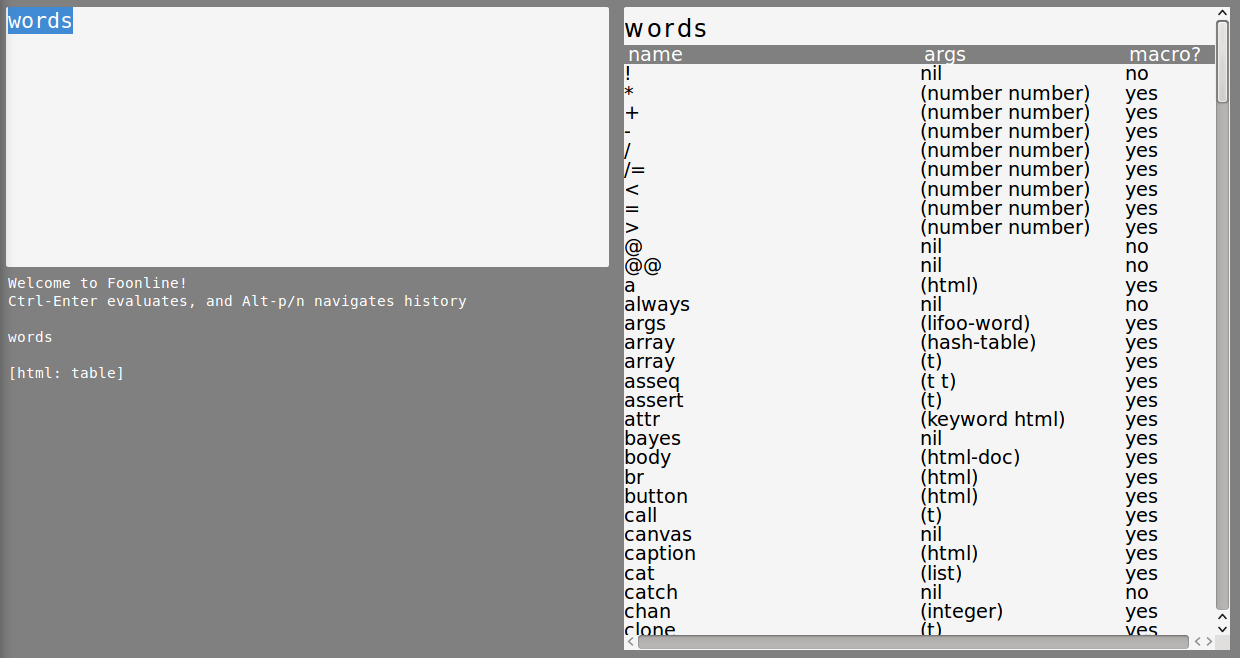
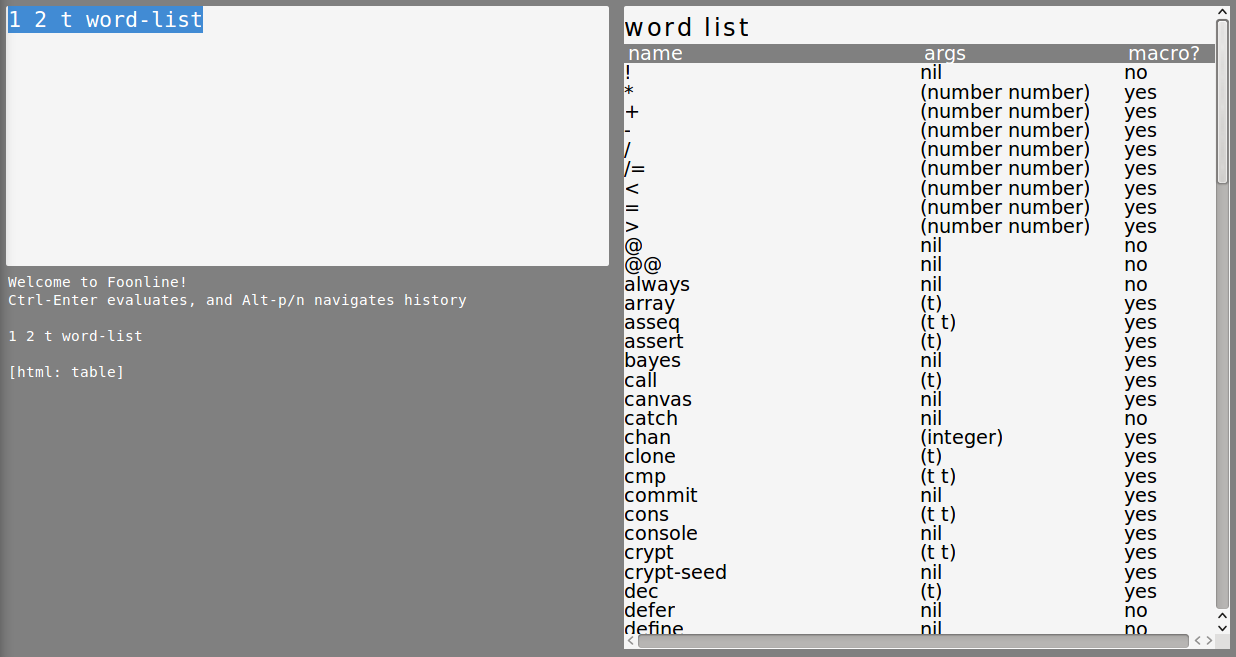
word-list

diff --git a/README.md b/README.md
@@ -66,31 +66,30 @@ canvas button
 (document "alert('clicked!');" update)@ onclick
 ```
 
-### word dictionary
-Included below is an example of, and the source code for the word table; accessible by evaluating 'words'. The variable ```words``` is initialized by a Lisp expression since the word dictionary isn't directly accessible from within Lifoo, which illustrates how easy it is to reach the outside world if needed.
+### word list
+Included below is an example of, and the source code for the word table; accessible by evaluating ```nil word-list```, passing ```t``` type-checks the list against the current stack.
 
 ![Words Example](https://github.com/codr4life/foonline/blob/master/example_words.png)
 
 ```
-canvas table
+words :words swap set
+canvas empty table
 :width style "100%" set drop
 :margin-top style "0.5em" set drop
-caption "words" text drop
+caption "word list" text drop
 tr
 th "name" text
 :width style "50%" set drop drop
 th "args" text drop 
 th "macro?" text drop
 drop
-:words (:w swap set drop tr 
-        td :w id str down swap drop text drop
-        td :w args 1 list str down swap drop text drop
-        td :w macro? "yes" "no" if swap drop text drop 
-        drop)@ each
-$ (:w (:words (lifoo-push
-                (mapcar #'rest 
-                        (index-first (lifoo-words)))) lisp)) 
-let
+:words
+(:w swap set drop tr 
+ td :w id str down swap drop text drop
+ td :w args 1 list str down swap drop text drop
+ td :w macro? "yes" "no" if swap drop text drop 
+ drop)@ each
+$ (:words :w) let
 ```
 
 ### future directions
